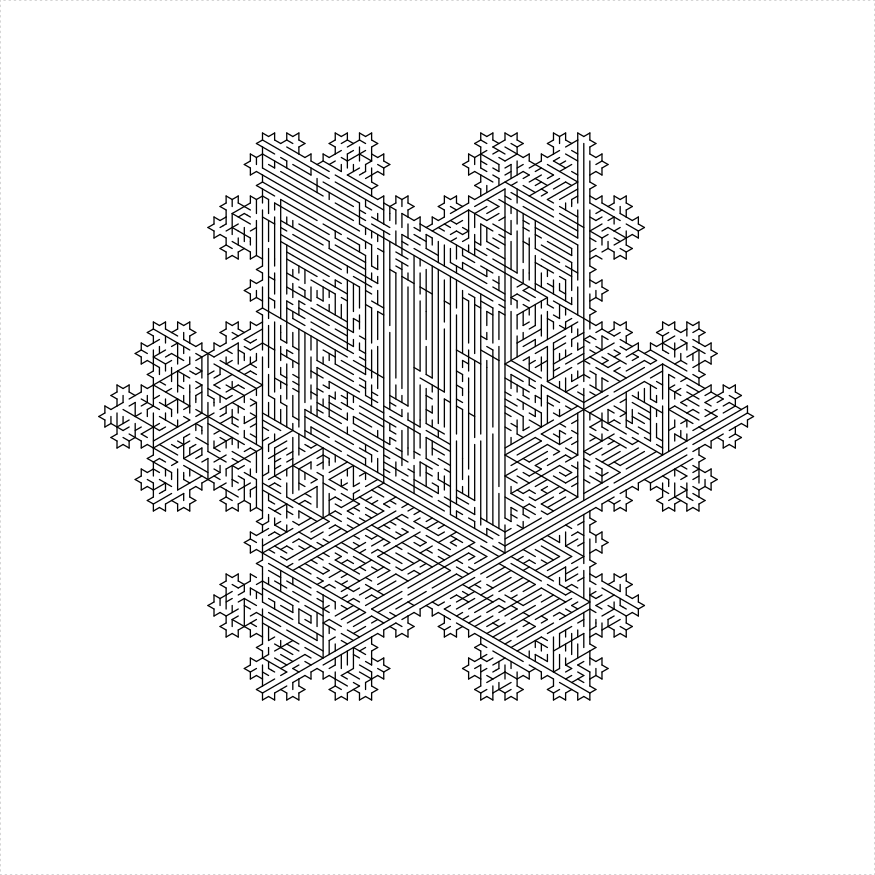
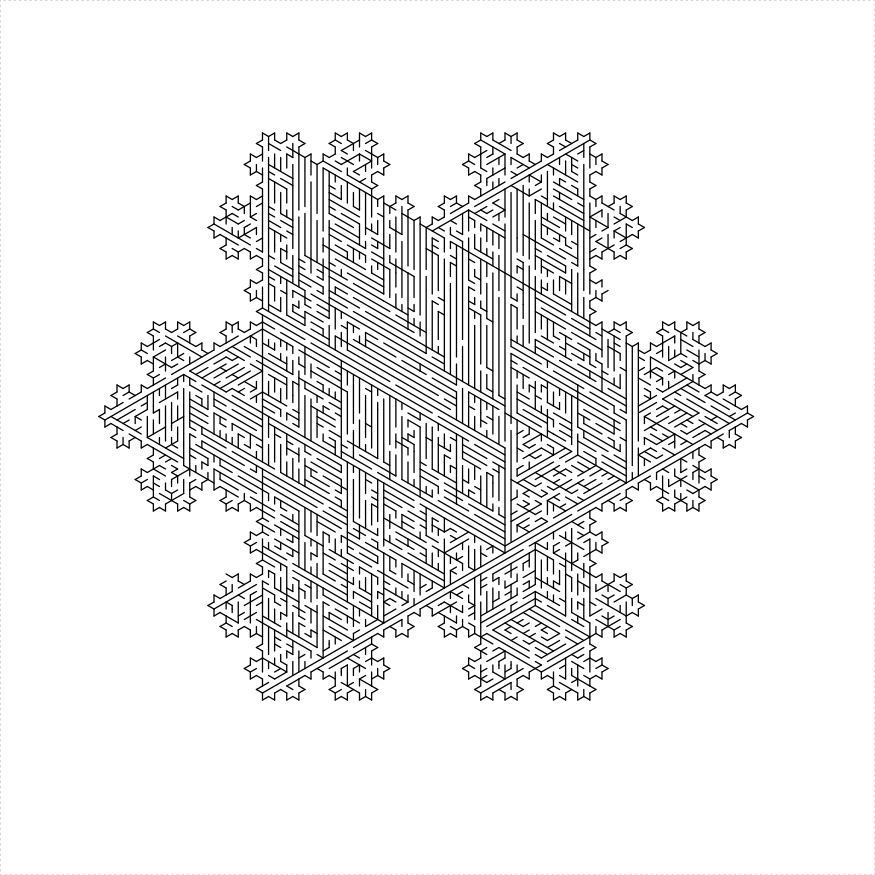
boundary controls into koch maze
arrows, hole locations, whether to draw the boundary.

Changed region(s): [[0.1234, 0.1543, 0.8331, 0.8023]]

diff --git a/README.md b/README.md
@@ -299,7 +299,7 @@ turtle_do({
     turtle_forward(distance = 300)
     turtle_right(90)
     hexagon_maze(depth = 5, unit_len = 12, method = "six_triangles", 
-        draw_boundary = TRUE)
+        draw_boundary = TRUE, boundary_hole_arrows = TRUE)
 })
 ```
 
@@ -318,7 +318,7 @@ turtle_do({
     turtle_forward(distance = 300)
     turtle_right(90)
     hexagon_maze(depth = 5, unit_len = 12, method = "three_parallelograms", 
-        draw_boundary = TRUE)
+        draw_boundary = TRUE, boundary_hole_arrows = TRUE)
 })
 ```
 
@@ -452,7 +452,7 @@ with triangular mazes and create lines with holes as needed:
 ```r
 library(TurtleGraphics)
 library(mazealls)
-# koch
+# koch flake
 turtle_init(1000, 1000)
 turtle_up()
 turtle_hide()
